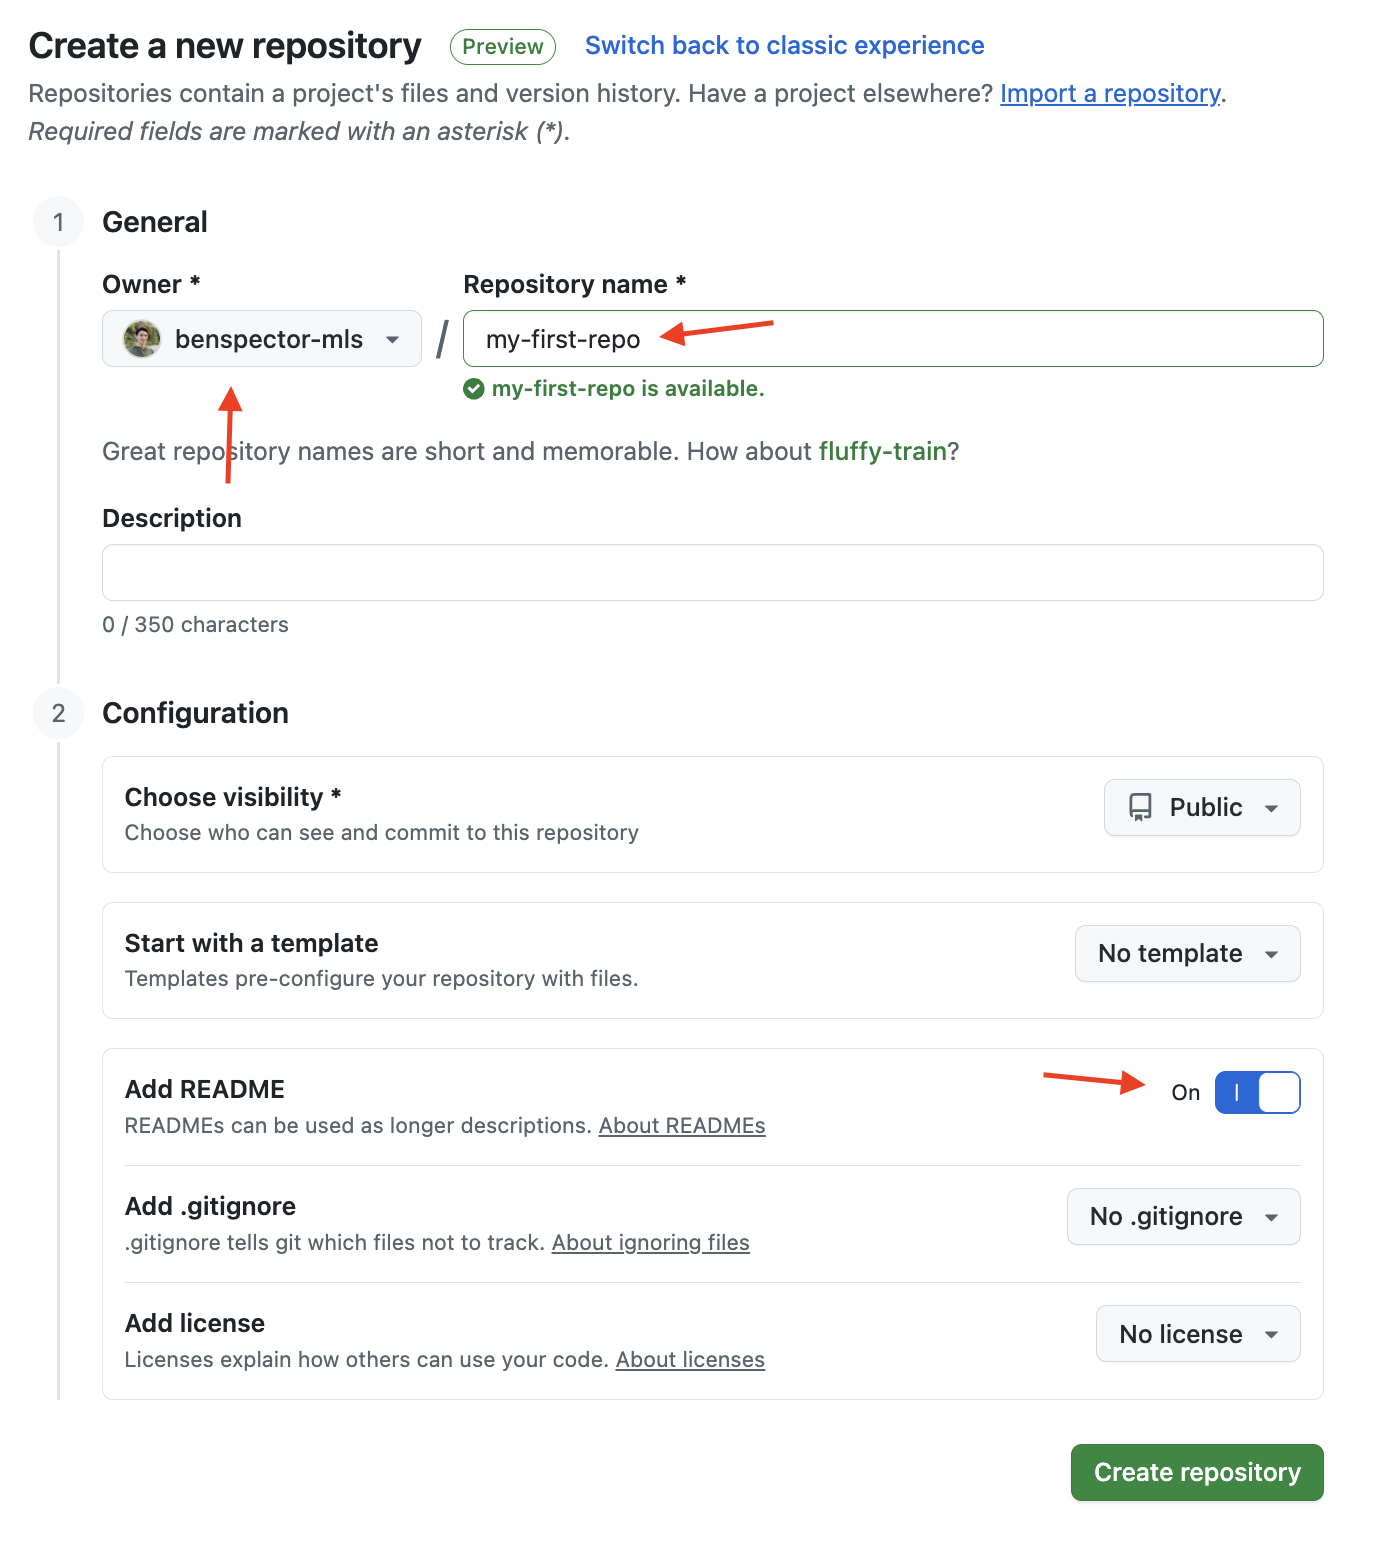
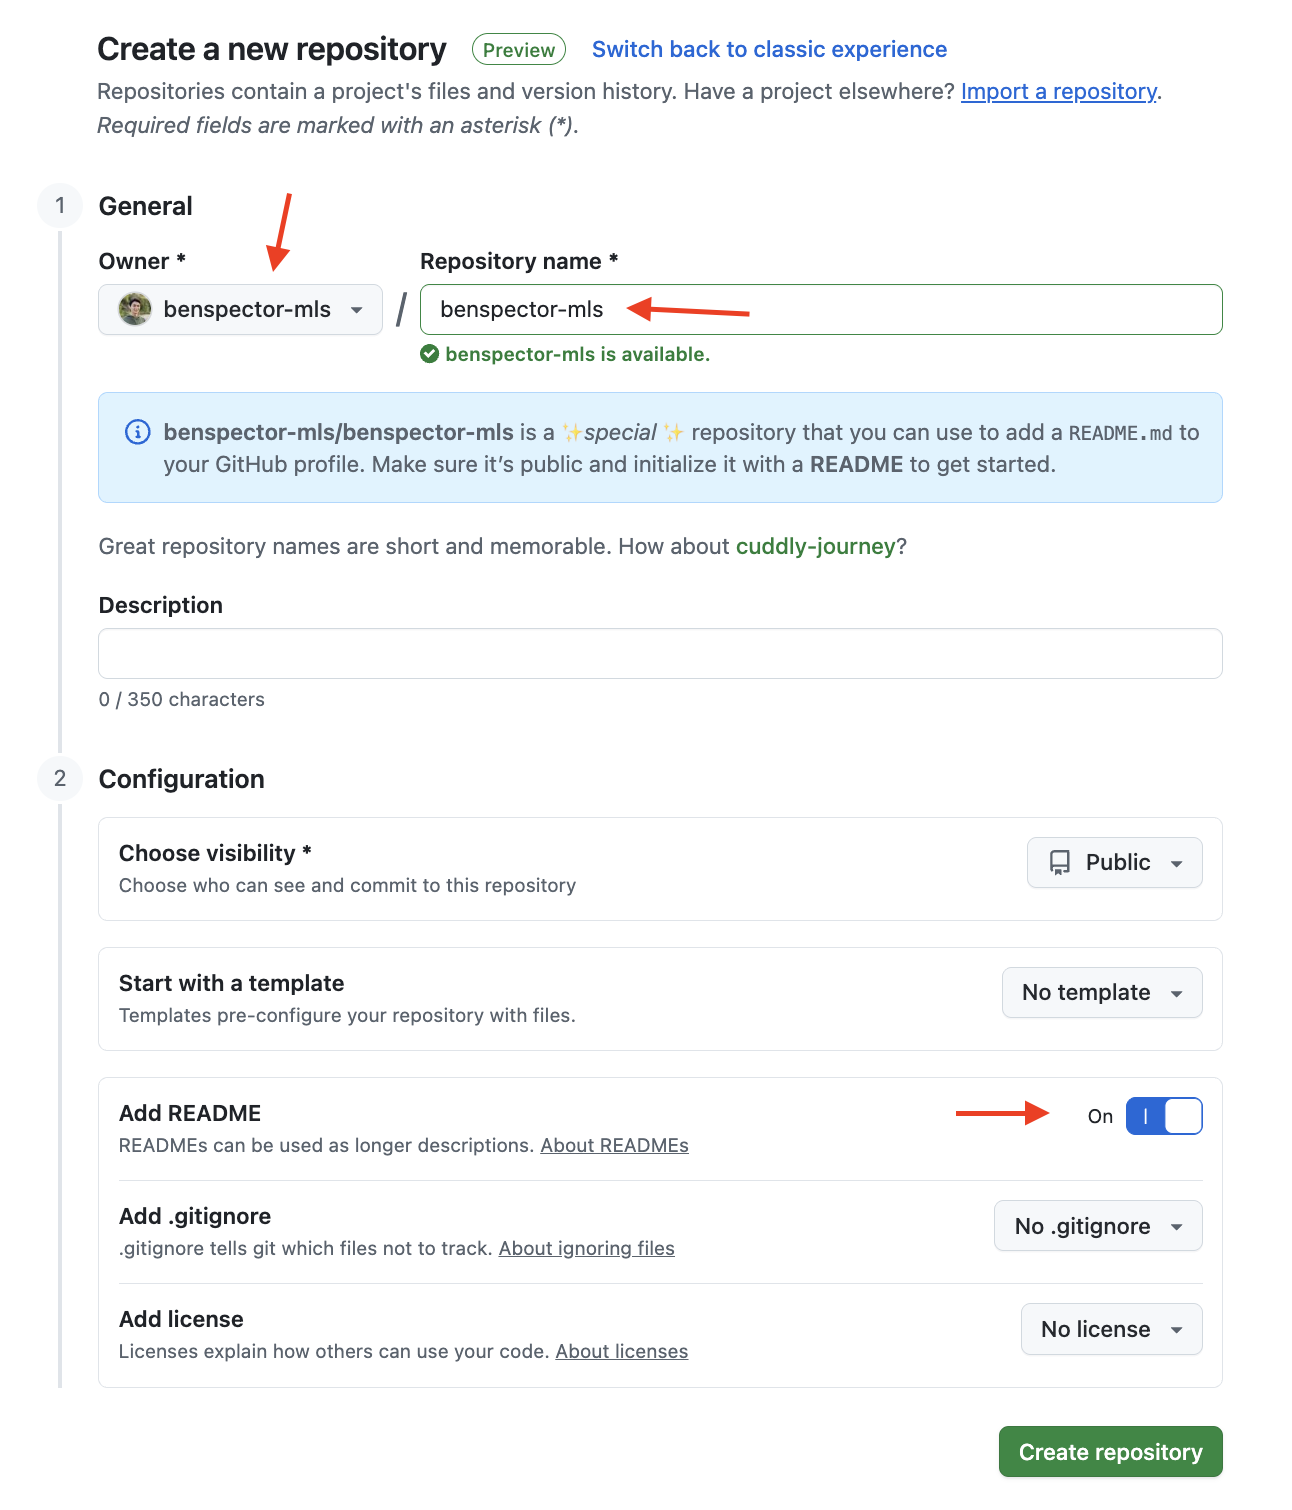
updating github instructions to have fellows create their actual Github profile

diff --git a/environment-setup/github-setup.md b/environment-setup/github-setup.md
@@ -64,7 +64,7 @@ Navigate to GitHub in the browser and log in. On the left side you should see a 
 
 Then, fill out the form to configure the repository:
 * Choose your account as the owner of this repository. 
-* Name your repository `my-first-repo`. 
+* Name your repository *exactly* the same as your username. You should see a message below saying that the repo is a "✨special✨ repository".
 * Toggle the switch for **Add README** to "On". 
 * Click **Create repository**.
 
@@ -142,12 +142,34 @@ Now that your GitHub profile has stored the SSH key generated by your computer, 
     
     If asked, "Are you sure you want to continue connecting", type `yes`. 
 
-6. Enter the command `ls` to see that a new folder `my-first-repo` has been added to the `mod-0` directory!
+6. Enter the command `ls` to see that a new folder with the name of your repo has been added to the `mod-0` directory!
 
-7. Navigate into that folder with the command `cd my-first-repo`
+7. Navigate into that folder with the command `cd [repo_name]` (replace `[repo_name]` with the name of your repository)
 
 8. Once your repo can been cloned down (downloaded), you should see also it in your file system in VS Code. Expand the folder and open the `README.md` file.
-9. In The `README.md` file, **Add a 3-4 sentence bio about yourself**. Be sure to save the file.
+9. In The `README.md` file, **Add a short bio about yourself**. Be sure to save the file. Below is a template you can get started with. It is written using Markdown which is a language used for formatting text. Copy the entire text and fill in your information where you see blank spaces:
+
+    ```md
+    # Hi, I'm _____ 👋
+
+    ## 👨🏫 About Me
+    - Student at the [Marcy Lab School](https://www.marcylabschool.org/) studying to become a Software Engineer
+    - Born in _____ → Raised in _____ → Currently in _____.
+    - Outside of work I like to _____
+    - Let's connect via email: _____
+
+    ## Tech Stack:
+
+    ### Languages
+    - JavaScript
+
+    ### Frameworks & Libraries
+    - Node.js
+
+    ### Tools
+    - Git
+    - GitHub
+    ```
 
 10. Push (upload) the changes to GitHub using the `git` commands below:
     
@@ -159,6 +181,8 @@ Now that your GitHub profile has stored the SSH key generated by your computer, 
     ```
 
 11. You've just uploaded your code from your computer to GitHub. Go back to GitHub to view your repository in the browser. Refresh the page and confirm that you see your newly added bio!
+
+    Any time that you would like to add to your bio (for example, to highlight a portfolio project or to share a link to your LinkedIn), just return to this repository in your terminal and repeat steps 9 and 10!
 
 # Final Step
 
